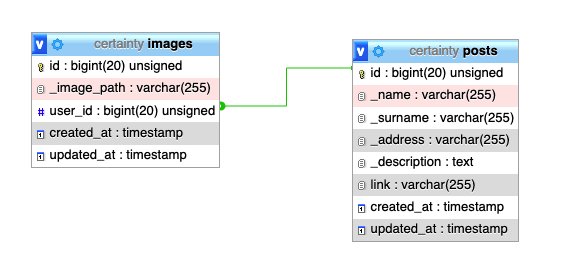
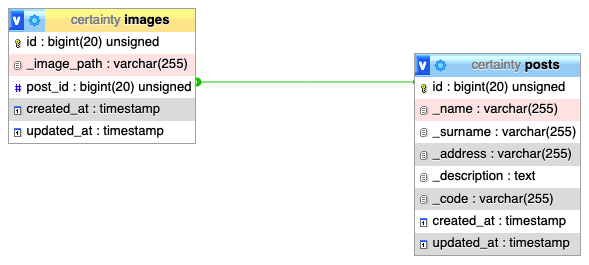
Enhanced validation in PostController and reduced the code lines

diff --git a/app/Http/Controllers/PostController.php b/app/Http/Controllers/PostController.php
@@ -11,65 +11,66 @@ use Illuminate\Support\Facades\DB;
 use App\Http\Requests\FormPostRequest;
 use Illuminate\Support\Facades\Schema;
 
-
-
-
 class PostController extends Controller
 {
     public function store(FormPostRequest $request)
     {
-        if(!DB::connection()->getDatabaseName()){
+        if (!DB::connection()->getDatabaseName())
+        {
             return redirect()
-            ->back()
-            ->with("failed", "Database connection lost");
+                ->back()
+                ->with("failed", "Database connection lost");
         }
-        if(!(Schema::hasTable('posts') && Schema::hasTable('images'))){
+
+        if (!(Helper::check_Db_Table_Exists('posts','images')))
+        {
             return redirect()
-            ->back()
-            ->with("failed", "Database tables are missing");
+                ->back()
+                ->with("failed", "Database table(s) is/are missing");
         }
+        if (!(Helper::check_Table_Column_Exists('posts',['_name','_surname','_address','_description','_code'])))
+        {
+            return redirect()
+                ->back()
+                ->with("failed", "Database table column(s) is/are missing");
+        }
+
         if (!($request->has('name') && 
-        $request->has('surname') && 
-        $request->has('address') && 
-        $request->has('description') && 
-        $request->hasFile('fileupload'))){
+            $request->has('surname') && 
+            $request->has('address') && 
+            $request->has('description') && 
+            $request->hasFile('fileupload')))
+        {
             abort(404);
         }
-        if ($images = $request->file('fileupload'))
-        {
-            $db_post = new Post;
-            $db_post->_name = $request->input('name');
-            $db_post->_surname = $request->input('surname');
-            $db_post->_address = $request->input('address');
-            $db_post->_description = $request->input('description');
-            $db_post->_code = Helper::getUniqueCode($request->input('name'));
-            $db_post->save();
-            foreach ($images as $image)
+        $db_post = Post::create(['_name' => $request->input('name'), 
+        '_surname' => $request->input('surname'), 
+        '_address' => $request->input('address'), 
+        '_description' => $request->input('description'), 
+        '_code' => Helper::getUniqueCode($request->input('name')), ]);
+
+            foreach ($request->file('fileupload') as $image)
             {
-                $db_image = new Image;
-                $img_name = md5(str_shuffle(uniqid()));
-                $img_extension = strtolower($image->getClientOriginalExtension());
-                $fullname = $img_name . '.' . $img_extension;
-                $path = "documents/";
-                $image->move($path, $fullname);
-                $db_image->_image_path = $path . $fullname;
-                $db_image->post_id = $db_post->id;
-                $db_image->save();
+            $img_name = md5(str_shuffle(uniqid()));
+            $img_extension = strtolower($image->getClientOriginalExtension());
+            $fullname = $img_name . '.' . $img_extension;
+            $path = "documents/";
+            $image->move($path, $fullname);
+            $db_post->postModels()->create(['_image_path' => $path . $fullname, 
+            'post_id' => $db_post->id, ]);
             }
-            return redirect()
+
+        return redirect()
             ->back()
             ->with("success", "Data Added Successfully")
             ->with('link', $db_post->_code);
-        }
-        
     }
 
     public function show($code)
     {
-      $db_post = Post::where('_code',$code)->firstOrFail();
-        //dd($db_post);
-        //dd($db_post->postModels);
-      return view('show')->with('data',$db_post);
+        $db_post = Post::where('_code', $code)->firstOrFail();
+        return view('show')
+            ->with('data', $db_post);
     }
 
 }

diff --git a/app/Classes/Helper.php b/app/Classes/Helper.php
@@ -2,6 +2,7 @@
 namespace App\Classes;
 
 use App\Models\Post;
+use Illuminate\Support\Facades\Schema;
 
 class Helper
 {
@@ -9,6 +10,26 @@ class Helper
         while(!(Post::where('_code',$name)->exists())){
             return preg_replace('/\s+/', '', $name).'-'.rand(10000,100000);
         }
-    }    
+    } 
+    public static function check_Db_Table_Exists(... $array){
+        $checker = true;
+        foreach ($array as $value) {
+            if(!Schema::hasTable($value)){
+                $checker = false;
+            }
+        }
+        return $checker;
+    } 
+    public static function check_Table_Column_Exists($table , ... $array){
+        $checker = true;
+        foreach ($array as $value) {
+            foreach ($value as $name) {
+                if(!Schema::hasColumn($table,$name)){
+                    $checker = false;
+                }
+            }
+        }
+        return $checker;
+    }   
 }
 

diff --git a/app/Models/Image.php b/app/Models/Image.php
@@ -7,6 +7,8 @@ use Illuminate\Database\Eloquent\Model;
 
 class Image extends Model
 {
+    public $timestamps = false;
+    
     use HasFactory;
     protected $table = 'images';
     protected $primaryKey = 'id';
@@ -18,4 +20,5 @@ class Image extends Model
     public function imageModels(){
         return $this->belongsTo(Post::class);
     }
+
 }

diff --git a/app/Models/Post.php b/app/Models/Post.php
@@ -7,6 +7,8 @@ use Illuminate\Database\Eloquent\Factories\HasFactory;
 
 class Post extends Model
 {
+    public $timestamps = false;
+    
     use HasFactory;
     protected $table = 'posts';
     protected $primaryKey = 'id';
